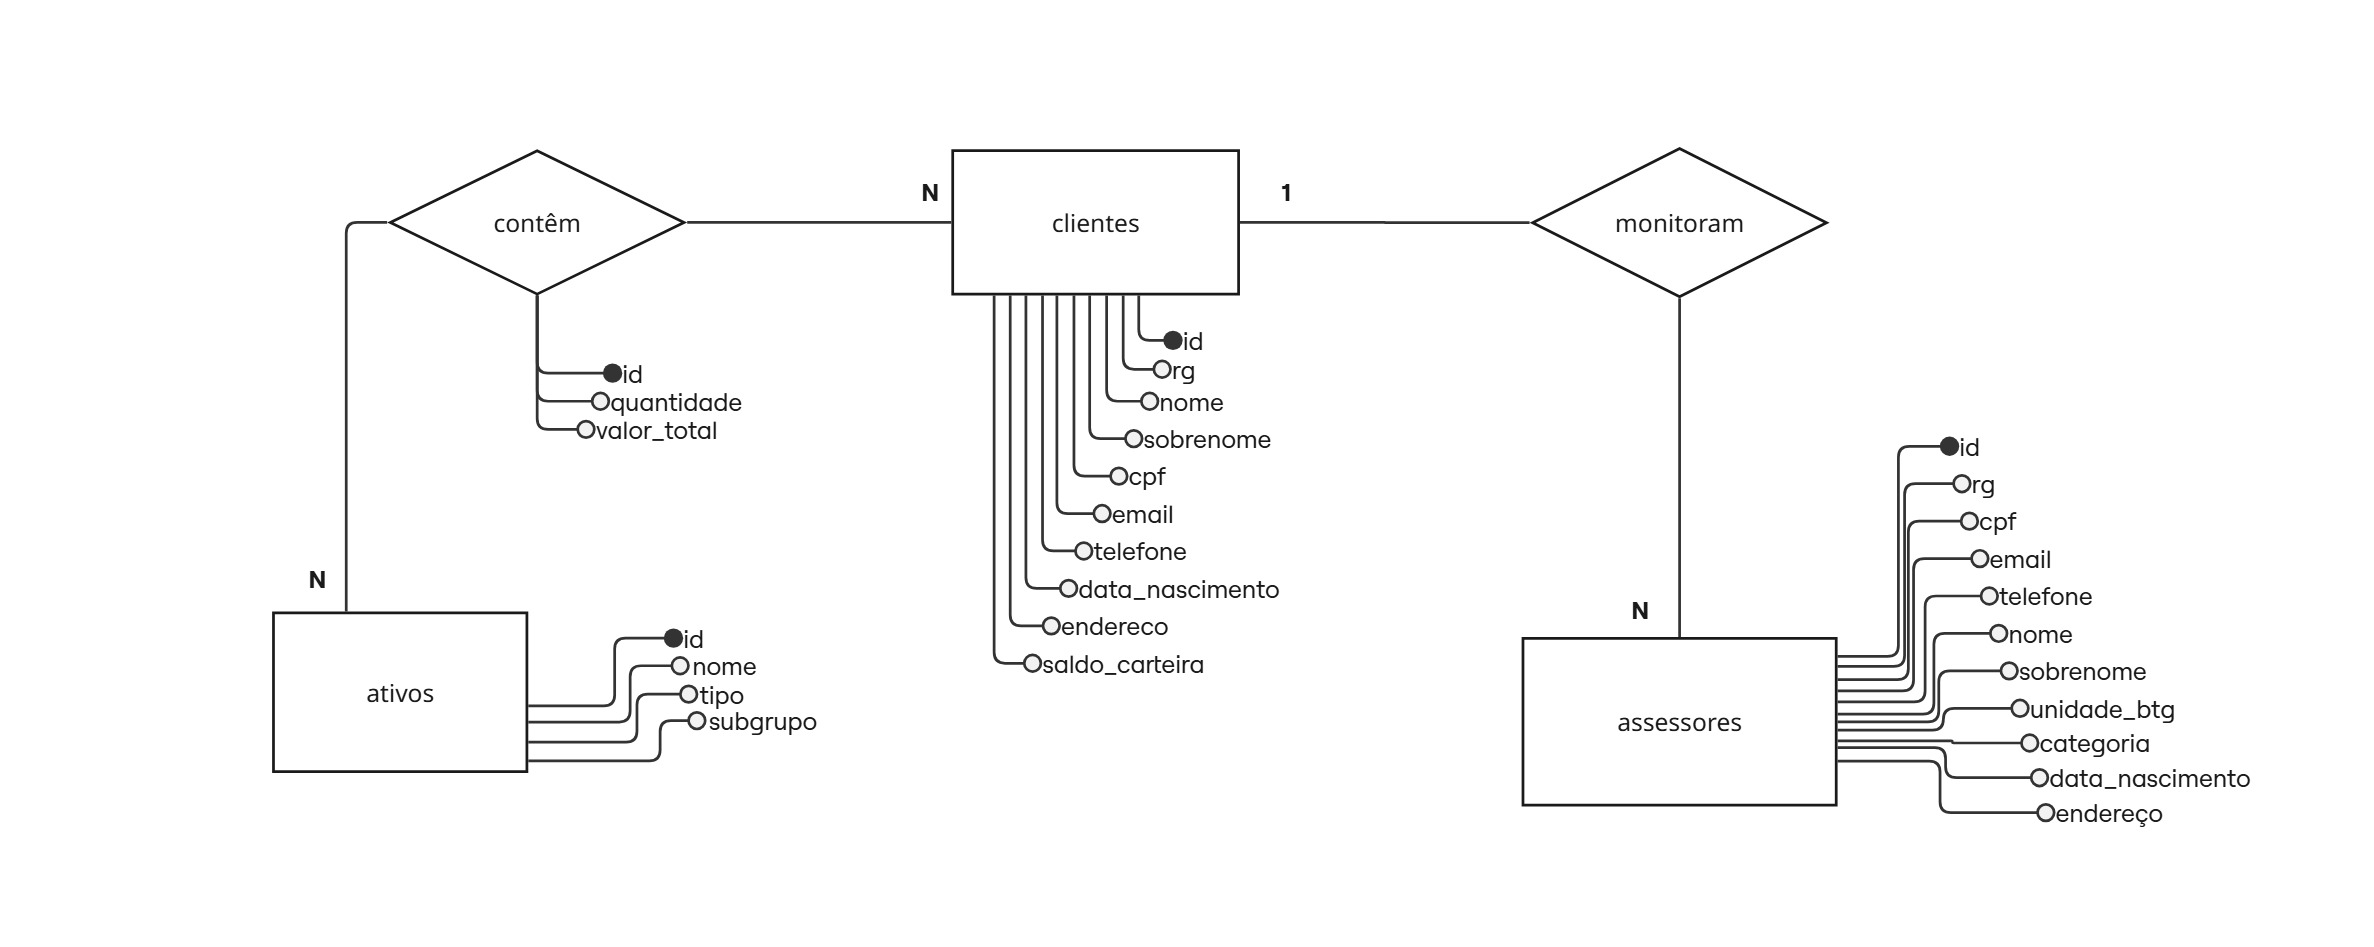
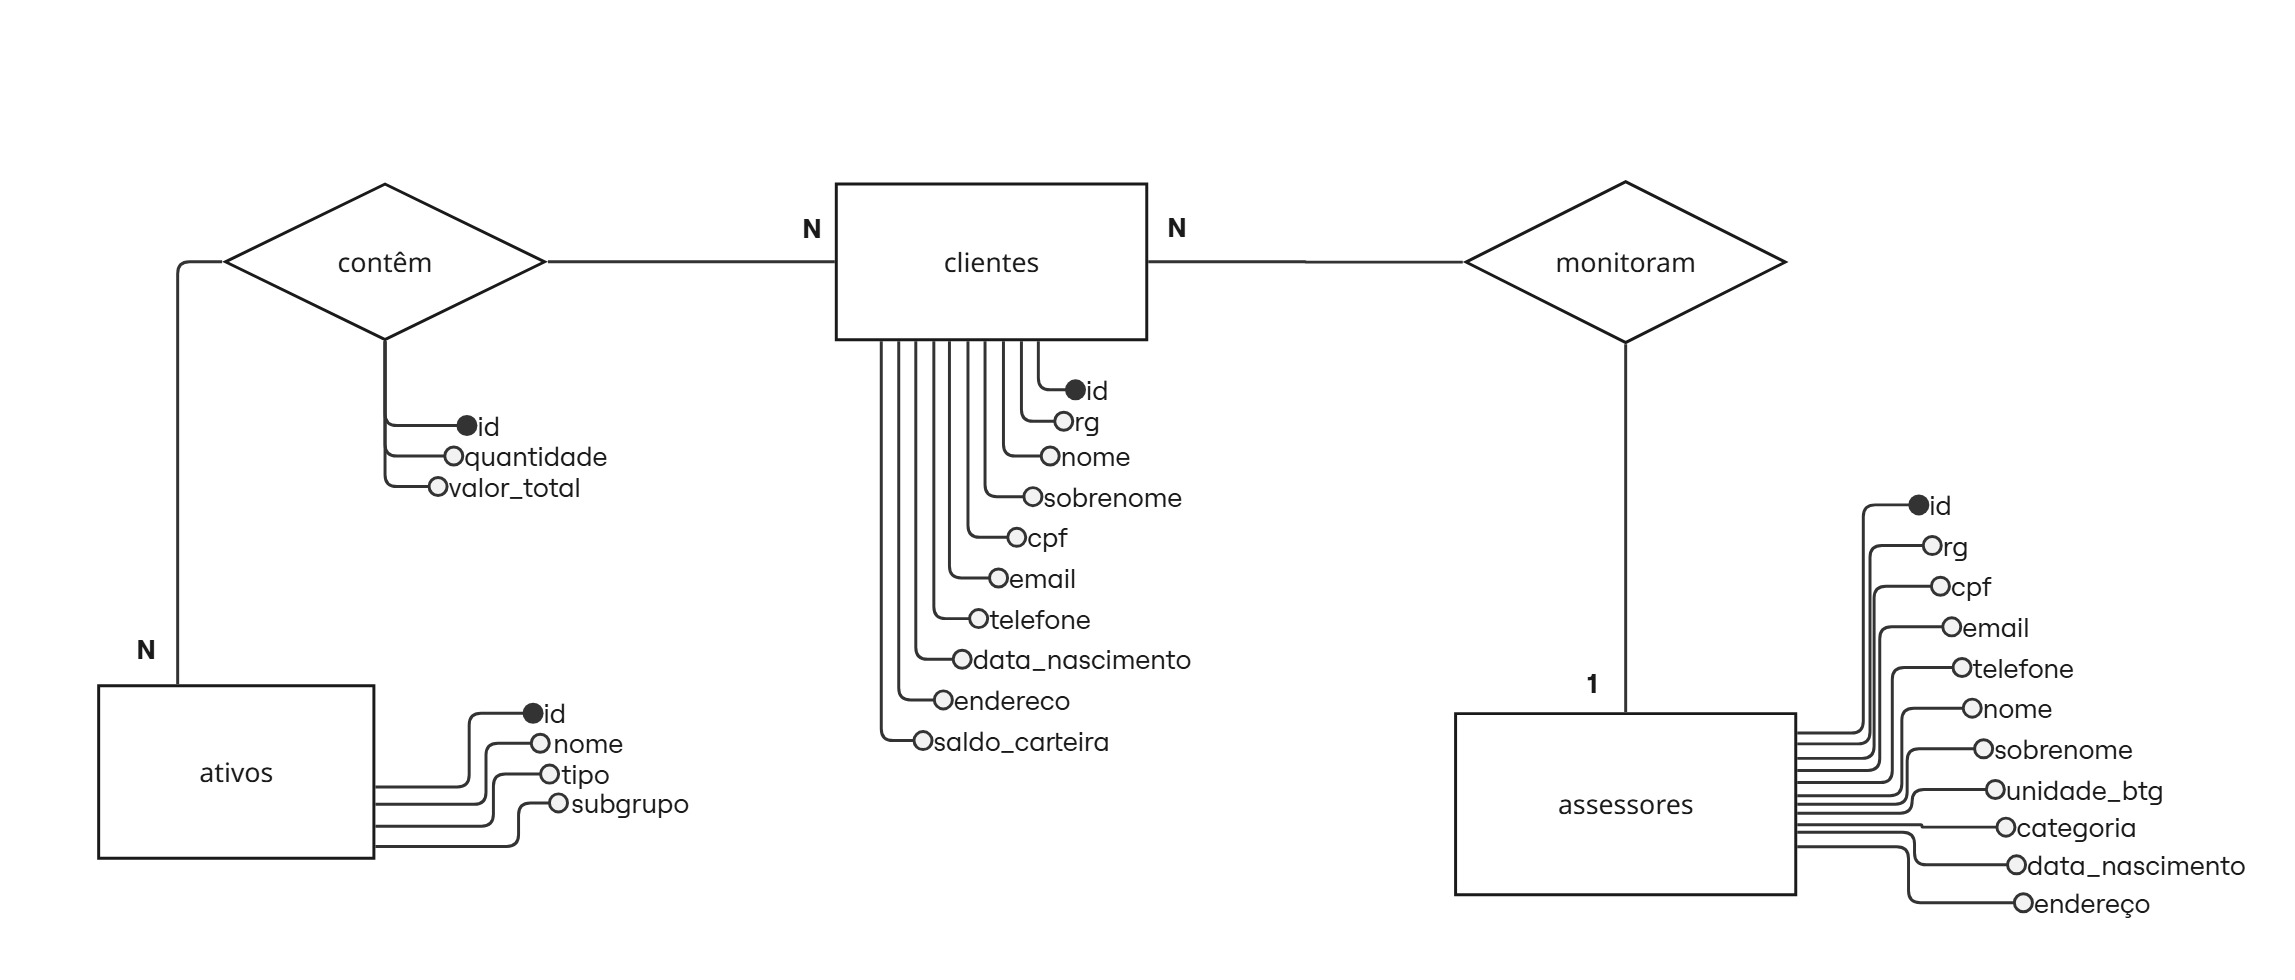
fix: correcao do pr

diff --git a/documentos/Projeto.md b/documentos/Projeto.md
@@ -648,7 +648,7 @@ Obs.: Insira aqui informações sobre a construção do artefato da Sprint 1.
 
 - **Clientes — Contêm — Ativos (N:N)**
 
-  Um cliente pode conter um ou vários ativos. Enquanto cada ativo associada a um único cliente.
+  Um cliente pode conter um ou vários ativos ao mesmo tempo que cada ativo pode ser associado a varios clientes.
   
 - **Assessores — Monitoram — Clientes (1:N)**
 
